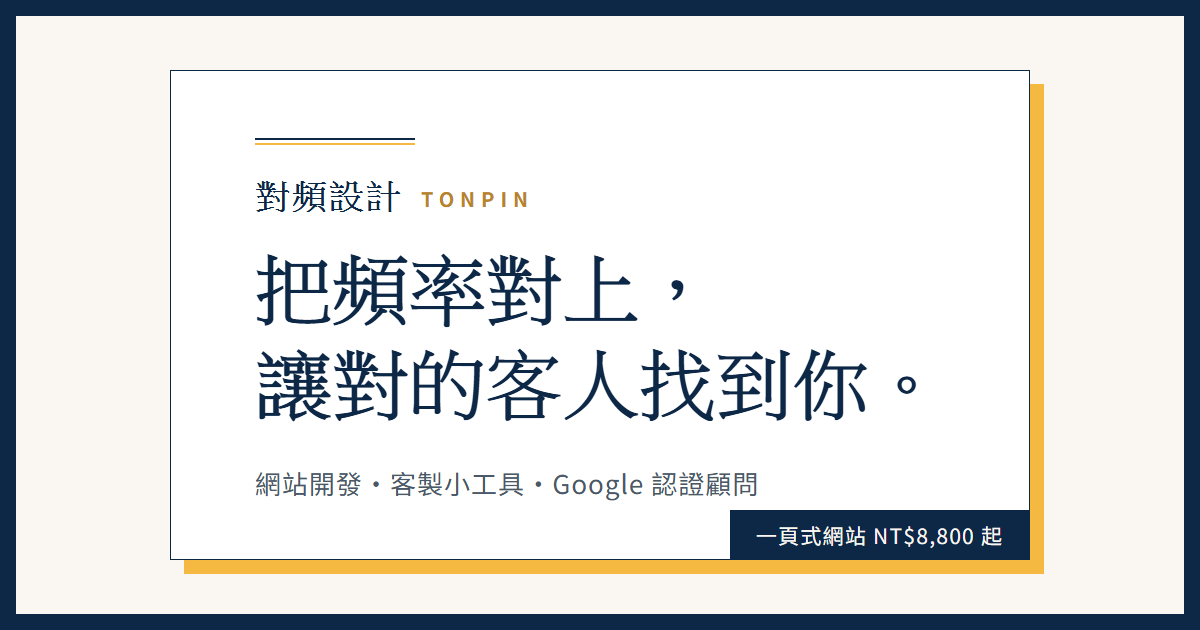
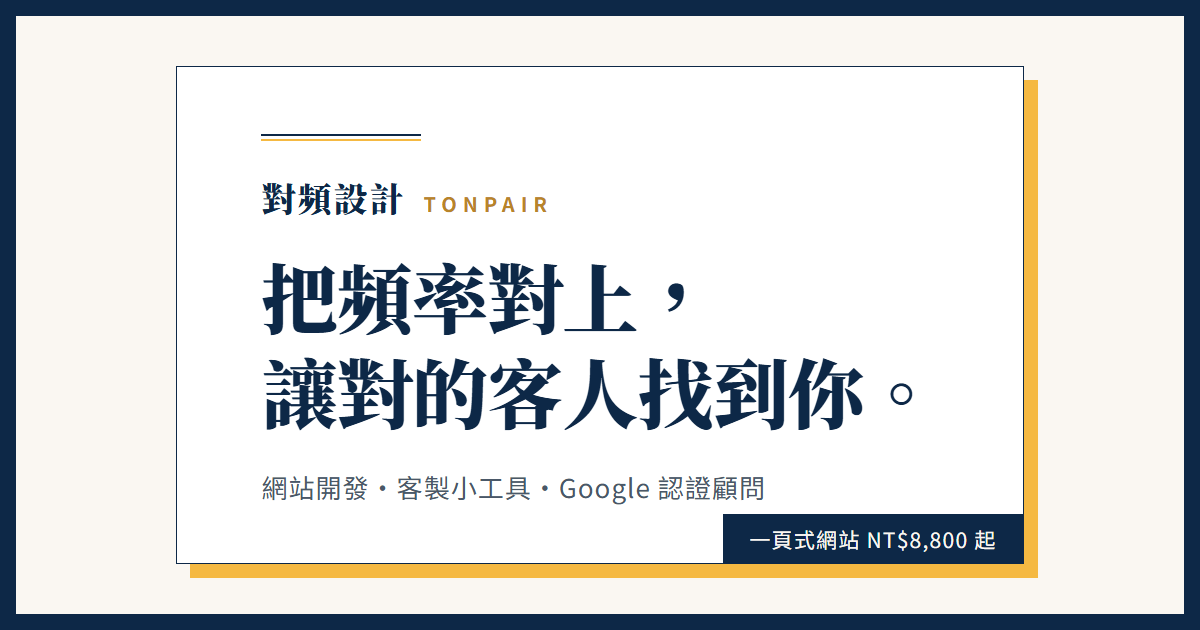
fix: 鴻綸科技案例圖改截取純 hero 區塊，避免截到照片區塊一半；補發現的 og-image 品牌名舊字 TONPIN 未更新
Claude-Session: https://claude.ai/code/session_0164LDUYhpLE3TW1tMPNBV61

diff --git a/portfolio.html b/portfolio.html
@@ -199,7 +199,7 @@
         <a class="case-media" href="https://www.hunglun.com/" target="_blank" rel="noopener" aria-label="開啟鴻綸科技官網">
           <picture>
             <source srcset="assets/portfolio/case-hunglun.webp" type="image/webp">
-            <img src="assets/portfolio/case-hunglun.png" alt="鴻綸科技官網首頁截圖" loading="lazy" width="1200" height="750">
+            <img src="assets/portfolio/case-hunglun.png" alt="鴻綸科技官網首頁截圖" loading="lazy" width="1200" height="840">
           </picture>
         </a>
         <div class="case-body">

diff --git a/index.html b/index.html
@@ -457,7 +457,7 @@
           <a href="https://www.hunglun.com/" target="_blank" rel="noopener" style="display:block">
             <picture>
               <source srcset="assets/portfolio/case-hunglun.webp" type="image/webp">
-              <img src="assets/portfolio/case-hunglun.png" alt="鴻綸科技官網首頁截圖" loading="lazy" width="1200" height="750">
+              <img src="assets/portfolio/case-hunglun.png" alt="鴻綸科技官網首頁截圖" loading="lazy" width="1200" height="840">
             </picture>
           </a>
           <div style="padding:26px 28px 30px">
